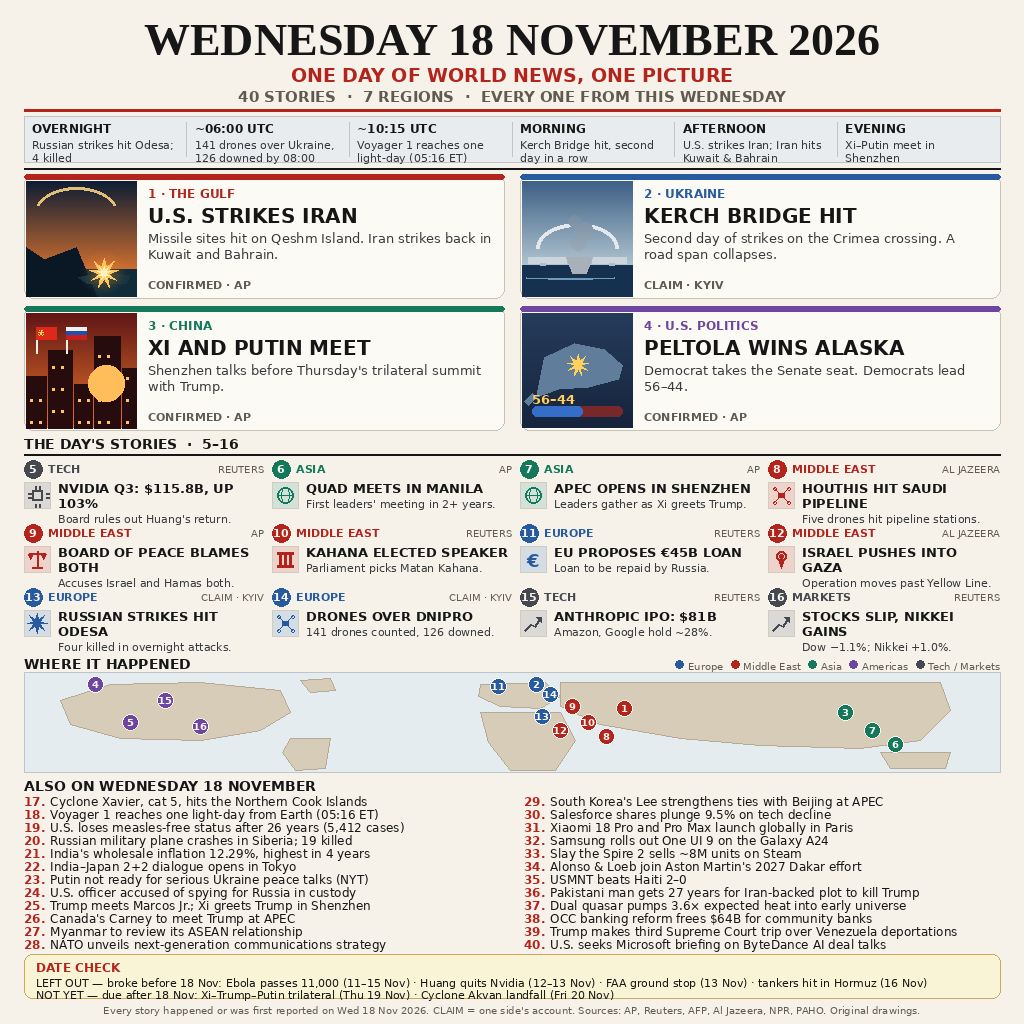
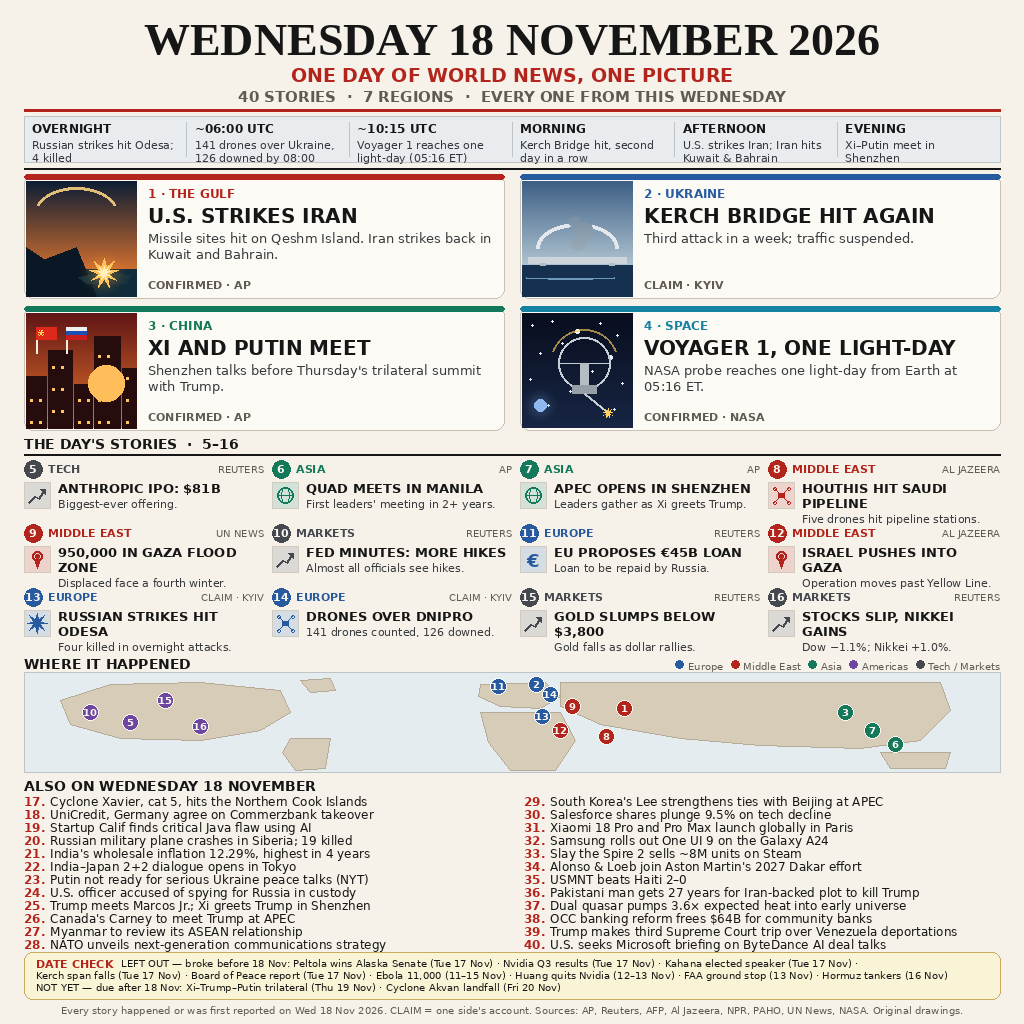
News image 18 Nov 2026 v2.1 — fix dates: Peltola/Nvidia/Kahana/Kerch were 17 Nov

diff --git a/draw.py b/draw.py
@@ -182,10 +182,9 @@ def vis_kerch(x0, y0, x1, y1):
     d.rectangle([x0, y0 + 84, x1, y1], fill=(22, 48, 80))
     waves(d, y0 + 96, x0 + 4, x1 - 4, (110, 155, 185), amp=2, step=22)
     deck = y0 + 76
-    d.rectangle([x0 + 6, deck, x0 + 44, deck + 6], fill=(204, 212, 220))
-    d.rectangle([x0 + 70, deck, x1 - 6, deck + 6], fill=(204, 212, 220))
-    d.polygon([(x0 + 44, deck), (x0 + 70, deck), (x0 + 64, deck + 16),
-               (x0 + 50, deck + 16)], fill=(168, 176, 186))
+    # deck drawn INTACT: the 18 Nov story is a fresh strike that suspends
+    # traffic, not the span collapse (that happened 17 Nov)
+    d.rectangle([x0 + 6, deck, x1 - 6, deck + 6], fill=(204, 212, 220))
     od.arc([x0 + 14, deck - 34, x1 - 14, deck + 16], start=180, end=360,
            fill=(226, 232, 238, 255), width=4)
     d.rectangle([x0 + 18, deck + 6, x0 + 23, y0 + 84], fill=(180, 188, 196))
@@ -221,19 +220,30 @@ def vis_shenzhen(x0, y0, x1, y1):
                             fill=col)
 
 
-def vis_alaska(x0, y0, x1, y1):
-    vgrad(d, (x0, y0, x1, y1), (38, 60, 92), (22, 36, 60))
-    d.polygon([(x0 + 14, y0 + 84), (x0 + 22, y0 + 44), (x0 + 52, y0 + 30),
-               (x0 + 82, y0 + 36), (x0 + 100, y0 + 52), (x0 + 96, y0 + 66),
-               (x0 + 66, y0 + 74), (x0 + 36, y0 + 76)], fill=(96, 126, 156))
-    d.polygon([(x0 + 14, y0 + 84), (x0 + 6, y0 + 92), (x0 + 2, y0 + 88),
-               (x0 + 10, y0 + 80)], fill=(96, 126, 156))
-    starburst(d, x0 + 56, y0 + 52, 11, 4, (255, 208, 90))
-    bx, by, bw = x0 + 10, y1 - 22, x1 - x0 - 20
-    d.rounded_rectangle([bx, by, bx + bw, by + 10], radius=5, fill=(120, 40, 40))
-    d.rounded_rectangle([bx, by, bx + int(bw * 0.56), by + 10], radius=5,
-                        fill=(52, 110, 200))
-    d.text((bx, by - 15), "56–44", font=font(SANS_B, 13), fill=(255, 208, 90))
+def vis_voyager(x0, y0, x1, y1):
+    vgrad(d, (x0, y0, x1, y1), (8, 14, 30), (24, 38, 68))
+    # stars
+    for (sx, sy, sr) in ((10, 12, 1), (30, 8, 1), (55, 18, 2), (78, 10, 1),
+                         (95, 22, 1), (18, 40, 1), (88, 44, 2), (40, 30, 1),
+                         (70, 58, 1), (8, 66, 1), (100, 70, 1), (48, 78, 1),
+                         (26, 92, 1), (92, 96, 1)):
+        d.ellipse([x0 + sx - sr, y0 + sy - sr, x0 + sx + sr, y0 + sy + sr],
+                  fill=(235, 238, 245))
+    # distant Earth far behind, small and blue
+    glow(od, x0 + 18, y0 + 92, 20, (120, 170, 235), peak=90)
+    d.ellipse([x0 + 12, y0 + 86, x0 + 24, y0 + 98], fill=(150, 190, 240))
+    # Voyager: dish + bus + boom
+    cx, cy = x0 + 62, y0 + 50
+    d.ellipse([cx - 26, cy - 26, cx + 26, cy + 26],
+              outline=(200, 206, 214), width=2)
+    d.line([(cx - 26, cy), (cx + 26, cy)], fill=(200, 206, 214), width=1)
+    d.rectangle([cx - 4, cy, cx + 4, cy + 22], fill=(180, 188, 196))
+    d.rectangle([cx - 12, cy + 22, cx + 12, cy + 30], fill=(150, 158, 166))
+    d.line([(cx, cy + 30), (cx + 22, cy + 48)], fill=(200, 206, 214), width=2)
+    starburst(d, cx + 24, cy + 50, 5, 2, (255, 208, 90))
+    # faint signal arcs from the dish
+    od.arc([cx - 34, cy - 34, cx + 34, cy + 34], start=200, end=340,
+           fill=(255, 208, 90, 160), width=2)
 
 
 HEROES = [
@@ -242,17 +252,17 @@ HEROES = [
          summary="Missile sites hit on Qeshm Island. Iran strikes back in Kuwait and Bahrain.",
          source="CONFIRMED · AP", vis=vis_gulf),
     dict(num=2, region="EUROPE", rc=BLUE, tag="UKRAINE",
-         headline="KERCH BRIDGE HIT",
-         summary="Second day of strikes on the Crimea crossing. A road span collapses.",
+         headline="KERCH BRIDGE HIT AGAIN",
+         summary="Third attack in a week; traffic suspended.",
          source="CLAIM · KYIV", vis=vis_kerch),
     dict(num=3, region="ASIA", rc=TEAL, tag="CHINA",
          headline="XI AND PUTIN MEET",
          summary="Shenzhen talks before Thursday's trilateral summit with Trump.",
          source="CONFIRMED · AP", vis=vis_shenzhen),
-    dict(num=4, region="AMERICAS", rc=PURPLE, tag="U.S. POLITICS",
-         headline="PELTOLA WINS ALASKA",
-         summary="Democrat takes the Senate seat. Democrats lead 56–44.",
-         source="CONFIRMED · AP", vis=vis_alaska),
+    dict(num=4, region="SCIENCE", rc=CYAN, tag="SPACE",
+         headline="VOYAGER 1, ONE LIGHT-DAY",
+         summary="NASA probe reaches one light-day from Earth at 05:16 ET.",
+         source="CONFIRMED · NASA", vis=vis_voyager),
 ]
 
 HROWS = [(174, 298), (306, 430)]
@@ -327,18 +337,18 @@ def icon(kind, x, y, col):
 
 
 GRID = [
-    (5, "TECH", SLATE, "NVIDIA Q3: $115.8B, UP 103%",
-     "Board rules out Huang's return.", "REUTERS", "chip"),
+    (5, "TECH", SLATE, "ANTHROPIC IPO: $81B",
+     "Biggest-ever offering.", "REUTERS", "chart"),
     (6, "ASIA", TEAL, "QUAD MEETS IN MANILA",
      "First leaders' meeting in 2+ years.", "AP", "globe"),
     (7, "ASIA", TEAL, "APEC OPENS IN SHENZHEN",
      "Leaders gather as Xi greets Trump.", "AP", "globe"),
     (8, "MIDDLE EAST", RED, "HOUTHIS HIT SAUDI PIPELINE",
      "Five drones hit pipeline stations.", "AL JAZEERA", "drone"),
-    (9, "MIDDLE EAST", RED, "BOARD OF PEACE BLAMES BOTH",
-     "Accuses Israel and Hamas both.", "AP", "scale"),
-    (10, "MIDDLE EAST", RED, "KAHANA ELECTED SPEAKER",
-     "Parliament picks Matan Kahana.", "REUTERS", "columns"),
+    (9, "MIDDLE EAST", RED, "950,000 IN GAZA FLOOD ZONE",
+     "Displaced face a fourth winter.", "UN NEWS", "pin"),
+    (10, "MARKETS", SLATE, "FED MINUTES: MORE HIKES",
+     "Almost all officials see hikes.", "REUTERS", "chart"),
     (11, "EUROPE", BLUE, "EU PROPOSES €45B LOAN",
      "Loan to be repaid by Russia.", "REUTERS", "euro"),
     (12, "MIDDLE EAST", RED, "ISRAEL PUSHES INTO GAZA",
@@ -347,8 +357,8 @@ GRID = [
      "Four killed in overnight attacks.", "CLAIM · KYIV", "burst"),
     (14, "EUROPE", BLUE, "DRONES OVER DNIPRO",
      "141 drones counted, 126 downed.", "CLAIM · KYIV", "drone"),
-    (15, "TECH", SLATE, "ANTHROPIC IPO: $81B",
-     "Amazon, Google hold ~28%.", "REUTERS", "chart"),
+    (15, "MARKETS", SLATE, "GOLD SLUMPS BELOW $3,800",
+     "Gold falls as dollar rallies.", "REUTERS", "chart"),
     (16, "MARKETS", SLATE, "STOCKS SLIP, NIKKEI GAINS",
      "Dow −1.1%; Nikkei +1.0%.", "REUTERS", "chart"),
 ]
@@ -408,12 +418,13 @@ for poly in CONTINENTS:
     d.polygon(poly, fill=LAND, outline=EDGE)
 DOTS = [
     (1, 624, 708, RED), (2, 536, 684, BLUE), (3, 845, 712, TEAL),
-    (4, 95, 684, PURPLE), (5, 130, 722, PURPLE), (6, 895, 744, TEAL),
+    (5, 130, 722, PURPLE), (6, 895, 744, TEAL),
     (7, 872, 730, TEAL), (8, 606, 736, RED), (9, 572, 706, RED),
-    (10, 588, 722, RED), (11, 498, 686, BLUE), (12, 560, 730, RED),
+    (10, 90, 712, PURPLE), (11, 498, 686, BLUE), (12, 560, 730, RED),
     (13, 542, 716, BLUE), (14, 550, 694, BLUE), (15, 165, 700, PURPLE),
     (16, 200, 726, PURPLE),
 ]
+# note: no dot for #4 (Voyager 1 is in space, no Earth location)
 for num, cx, cy, col in DOTS:
     d.ellipse([cx - 8, cy - 8, cx + 8, cy + 8], fill=col,
               outline=WHITE, width=1)
@@ -426,8 +437,8 @@ d.text((MX, 778), "ALSO ON WEDNESDAY 18 NOVEMBER",
        font=font(SANS_B, 14), fill=INK)
 ALSO = [
     "Cyclone Xavier, cat 5, hits the Northern Cook Islands",
-    "Voyager 1 reaches one light-day from Earth (05:16 ET)",
-    "U.S. loses measles-free status after 26 years (5,412 cases)",
+    "UniCredit, Germany agree on Commerzbank takeover",
+    "Startup Calif finds critical Java flaw using AI",
     "Russian military plane crashes in Siberia; 19 killed",
     "India's wholesale inflation 12.29%, highest in 4 years",
     "India–Japan 2+2 dialogue opens in Tokyo",
@@ -464,21 +475,26 @@ for i, item in enumerate(ALSO):
     d.text((nx, ay), txt, font=af, fill=INK)
 
 # ------------------------------------------------------------ date check
-d.rounded_rectangle([MX, 954, W - MX, 998], radius=8,
+d.rounded_rectangle([MX, 952, W - MX, 999], radius=8,
                     fill=(250, 244, 214), outline=(200, 170, 90), width=1)
-d.text((MX + 12, 960), "DATE CHECK", font=font(SANS_B, 12), fill=RED)
-dc1 = ("LEFT OUT — broke before 18 Nov: Ebola passes 11,000 (11–15 Nov) · "
-       "Huang quits Nvidia (12–13 Nov) · FAA ground stop (13 Nov) · "
-       "tankers hit in Hormuz (16 Nov)")
-dc2 = ("NOT YET — due after 18 Nov: Xi–Trump–Putin trilateral (Thu 19 Nov) · "
+d.text((MX + 12, 957), "DATE CHECK", font=font(SANS_B, 11), fill=RED)
+dcf = font(SANS, 10)
+lab_w = d.textlength("DATE CHECK", font=font(SANS_B, 11))
+dc1 = ("LEFT OUT — broke before 18 Nov: Peltola wins Alaska Senate (Tue 17 Nov) · "
+       "Nvidia Q3 results (Tue 17 Nov) · Kahana elected speaker (Tue 17 Nov) ·")
+dc2 = ("Kerch span falls (Tue 17 Nov) · Board of Peace report (Tue 17 Nov) · "
+       "Ebola 11,000 (11–15 Nov) · Huang quits Nvidia (12–13 Nov) · "
+       "FAA ground stop (13 Nov) · Hormuz tankers (16 Nov)")
+dc3 = ("NOT YET — due after 18 Nov: Xi–Trump–Putin trilateral (Thu 19 Nov) · "
        "Cyclone Akvan landfall (Fri 20 Nov)")
-d.text((MX + 12, 976), dc1, font=font(SANS, 11), fill=INK)
-d.text((MX + 12, 988), dc2, font=font(SANS, 11), fill=INK)
+d.text((MX + 12 + lab_w + 8, 957), dc1, font=dcf, fill=INK)
+d.text((MX + 12, 969), dc2, font=dcf, fill=INK)
+d.text((MX + 12, 981), dc3, font=dcf, fill=INK)
 
 # ---------------------------------------------------------------- footer
 foot = ("Every story happened or was first reported on Wed 18 Nov 2026. "
         "CLAIM = one side's account. Sources: AP, Reuters, AFP, Al Jazeera, "
-        "NPR, PAHO. Original drawings.")
+        "NPR, PAHO, UN News, NASA. Original drawings.")
 ff = font(SANS, 10)
 fw = d.textlength(foot, font=ff)
 d.text(((W - fw) / 2, 1004), foot, font=ff, fill=GREY)

diff --git a/README.md b/README.md
@@ -4,7 +4,7 @@
 [![rank](https://make.fun/badge/news-image-20261118/gita-baru/news-image-20261118/rank.svg)](https://make.fun/bounty/news-image-20261118/leaderboard?utm_source=github&utm_medium=readme&utm_campaign=news-image-20261118)
 [![reward](https://make.fun/badge/news-image-20261118/gita-baru/news-image-20261118/reward.svg)](https://make.fun/bounty/news-image-20261118?utm_source=github&utm_medium=readme&utm_campaign=news-image-20261118)
 
-Version 2 of an editorial front page that sums up the world's news of Wednesday 18 November 2026 in one image: a UTC timeline, four hero stories (U.S. strikes on Iran, the Kerch Bridge hit, Xi and Putin in Shenzhen, Peltola winning Alaska), a numbered grid of 12 more stories, a world map, 24 more stories, and a date check naming what broke before the day and what was not yet due. The image is drawn by `draw.py` (PIL) and `main.ts` copies the finished `entry.png` to the output directory.
+Version 2.1 of an editorial front page that sums up the world's news of Wednesday 18 November 2026 in one image: a UTC timeline, four hero stories (U.S. strikes on Iran, the Kerch Bridge hit again, Xi and Putin in Shenzhen, Voyager 1 reaching one light-day), a numbered grid of 12 more stories, a world map, 24 more stories, and a date check naming what broke before the day and what was not yet due. Version 2.1 fixes the dates: Peltola's Alaska win, Nvidia's Q3 results, Kahana's election as speaker and the Kerch span collapse all happened on Tuesday 17 November, so they were replaced with verified 18 November stories (Voyager 1, Anthropic's $81B IPO, the WHO Gaza flood warning, the Fed minutes) and named in the date check. The image is drawn by `draw.py` (PIL) and `main.ts` copies the finished `entry.png` to the output directory.
 
 ## Run it
 
